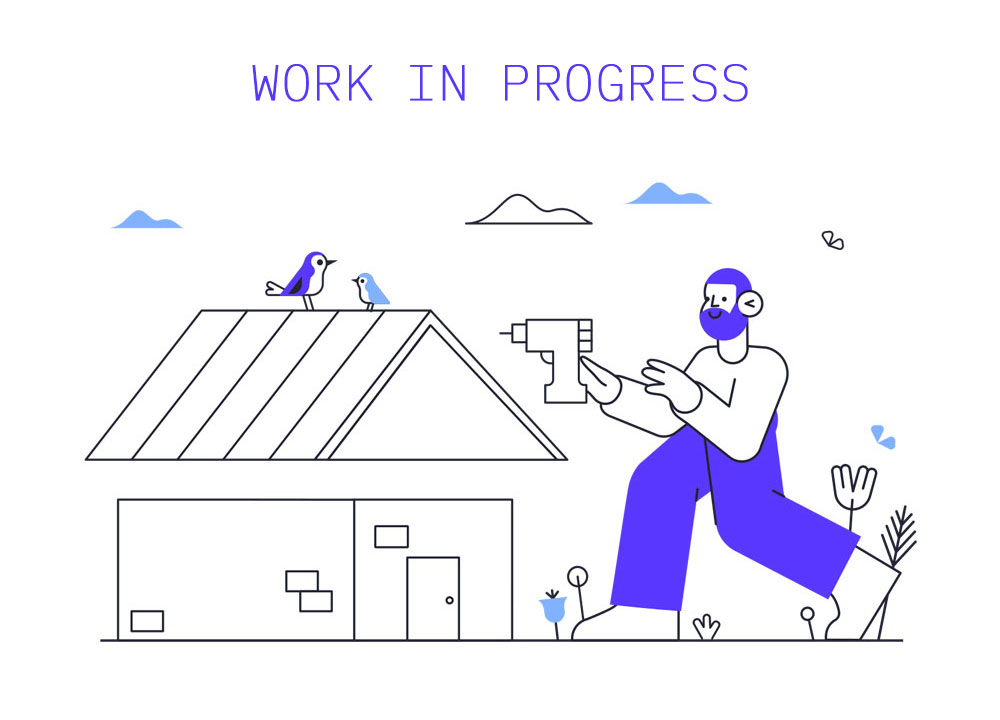
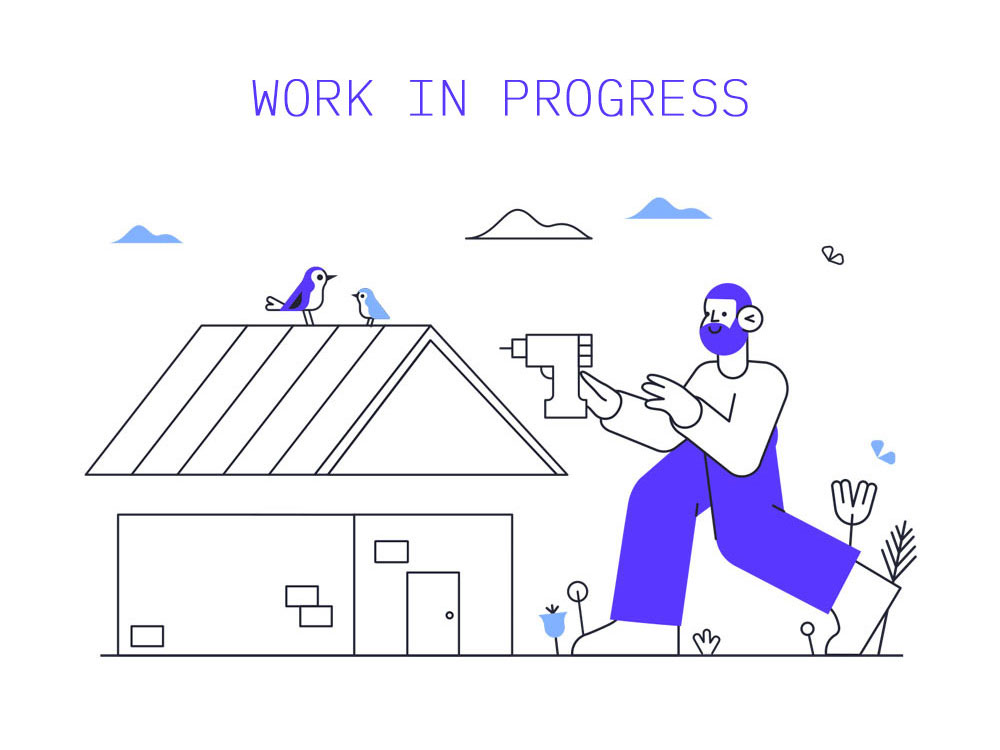
fixed project image size problems

diff --git a/components/project/project.module.scss b/components/project/project.module.scss
@@ -9,8 +9,16 @@
   justify-content: space-evenly;
   align-items: center;
 
+  @include tablet {
+    flex-direction: column;
+    justify-content: center;
+    padding: 100px 0;
+    margin: 0 30px;
+  }
+  
   @include mobile {
     flex-direction: column;
+    justify-content: center;
     padding: 100px 0;
     margin: 0 30px;
   }
@@ -19,14 +27,30 @@
     margin: 0 10px;
   }
 
-  .tilt {
-    max-width: 400px;
-    @include mobile {
-      max-width: 60vw;
+  .tilt_box {
+    position: relative;
+    width: 80%;
+    @include mobile {width: 70%;}
+    @include tablet {width: 60%;}
+    max-width: 500px;
+
+    &:before {
+      content: '';
+      display: block;
+      padding-top: 75%;
     }
-    display: flex;
-    img {
-      width: 100%;
+    
+    .tilt {
+      position: absolute;
+      top: 0;
+      left: 0;
+      bottom: 0;
+      right: 0;
+      
+      img {
+        width: 100%;
+        height: 100%;
+      }
     }
   }
 
@@ -38,6 +62,10 @@
     align-items: flex-start;
     max-width: 50vw;
     
+    @include tablet {
+      max-width: 100vw;
+      padding: 0;
+    }
     @include mobile {
       max-width: 100vw;
       padding: 0;

diff --git a/components/project/project.component.js b/components/project/project.component.js
@@ -5,17 +5,19 @@ import styles from './project.module.scss'
 export function Project({ image, title, text, links }) {
   return (
     <div className={styles.project}>
-      <Tilt
-        className={styles.tilt}
-        perspective={500}
-        tiltMaxAngleX={5}
-        tiltMaxAngleY={10}
-        glareEnable={true}
-        glareMaxOpacity={0.2}
-        scale={1.08}
-      >
-        <img src={image} alt={title} />
-      </Tilt>
+      <div className={styles.tilt_box}>
+        <Tilt
+          className={styles.tilt}
+          perspective={500}
+          tiltMaxAngleX={5}
+          tiltMaxAngleY={10}
+          glareEnable={true}
+          glareMaxOpacity={0.2}
+          scale={1.08}
+        >
+          <img src={image} alt={title} />
+        </Tilt>
+      </div>
 
       <div className={styles.info}>
         <h1>{title}</h1>

diff --git a/projects/image-recognition.md b/projects/image-recognition.md
@@ -12,3 +12,5 @@ App that gets an image and detects if it has a face on it.
 I used **React**, **Node** and **Express.js** for the backend, **PostgreSQL** for the database and **Clarifai API** for the image recognition features.
 
 I also used **React Hooks**, **Tachyons** and **bcrypt**.
+
+Hosted on a free **Heroku** account, it takes a minute to load the site.

diff --git a/projects/e-commerce.md b/projects/e-commerce.md
@@ -12,3 +12,5 @@ Full stack online shop app.
 I used **React**, **Redux** for state management, **Firebase** for authentication and database and **Stripe** for managing payments.
 
 I also used **React Hooks**, **GraphQL** and **ContextAPI**.
+
+Hosted on a free **Heroku** account, it takes a minute to load the site.
